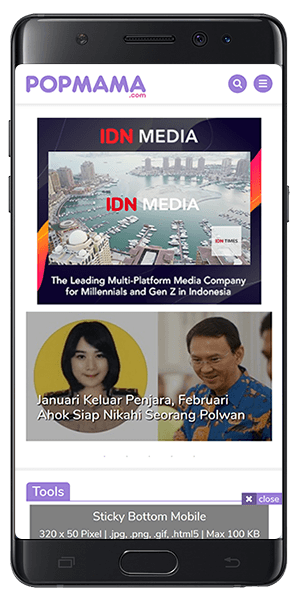
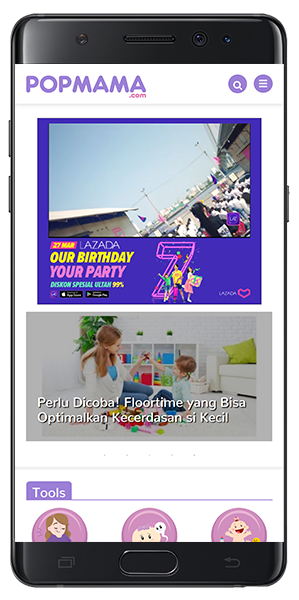
update

diff --git a/adproducts/page/idntimes/tvc-cpd.html b/adproducts/page/idntimes/tvc-cpd.html
@@ -32,9 +32,15 @@
                                 <div class="carousel-inner text-center">
                                     <div class="carousel-item active">
                                         <img class="d-block w-100" src="screenshots/leaderboard-tvc.png" alt="First slide">
+                                        <video autoplay muted loop playsinline preload="metadata" style="width: 20%; height: auto; position: absolute; left: 25%; margin: auto; top: 16%; z-index: 2;">
+                                            <source src="https://ads.idntimes.com/ads-assets/internal/video/video-lazada-ultah_1.mp4" type="video/mp4">
+                                        </video>
                                     </div>
                                     <div class="carousel-item mobile-ss">
                                         <img class="d-block w-100" src="screenshots/leaderboard-tvc-m.png" alt="Second slide" style="left: 0; right: 0; margin: auto; max-height: 350px; width: auto!important;">
+                                        <video autoplay muted loop playsinline preload="metadata" style="width: 120px; height: auto; position: absolute; left: 0; right: 0; margin: auto; top: 97px; z-index: 2;">
+                                            <source src="https://ads.idntimes.com/ads-assets/internal/video/video-lazada-ultah_1.mp4" type="video/mp4">
+                                        </video>
                                     </div>
                                 </div>
                                 <a class="carousel-control-prev" href="#carouselExampleIndicators" role="button" data-slide="prev">

diff --git a/adproducts/page/popmama/tvc-cpd.html b/adproducts/page/popmama/tvc-cpd.html
@@ -31,9 +31,15 @@
                                 <div class="carousel-inner text-center">
                                     <div class="carousel-item active">
                                         <img class="d-block w-100" src="screenshots/leaderboard-tvc.png" alt="First slide">
+                                        <video autoplay muted loop playsinline preload="metadata" style="width: 20%; height: auto; position: absolute; left: 25%; margin: auto; top: 19%; z-index: 2;">
+                                            <source src="https://ads.idntimes.com/ads-assets/internal/video/video-lazada-ultah_1.mp4" type="video/mp4">
+                                        </video>
                                     </div>
                                     <div class="carousel-item mobile-ss">
                                         <img class="d-block w-100" src="screenshots/leaderboard-tvc-m.png" alt="Second slide" style="left: 0; right: 0; margin: auto; max-height: 350px; width: auto!important;">
+                                        <video autoplay muted loop playsinline preload="metadata" style="width: 120px; height: auto; position: absolute; left: 0; right: 0; margin: auto; top: 71px; z-index: 2;">
+                                            <source src="https://ads.idntimes.com/ads-assets/internal/video/video-lazada-ultah_1.mp4" type="video/mp4">
+                                        </video>
                                     </div>
                                 </div>
                                 <a class="carousel-control-prev" href="#carouselExampleIndicators" role="button" data-slide="prev">

diff --git a/adproducts/page/popmama/tvc-cpm.html b/adproducts/page/popmama/tvc-cpm.html
@@ -31,9 +31,15 @@
                                 <div class="carousel-inner text-center">
                                     <div class="carousel-item active">
                                         <img class="d-block w-100" src="screenshots/leaderboard-tvc.png" alt="First slide">
+                                        <video autoplay muted loop playsinline preload="metadata" style="width: 20%; height: auto; position: absolute; left: 25%; margin: auto; top: 19%; z-index: 2;">
+                                            <source src="https://ads.idntimes.com/ads-assets/internal/video/video-lazada-ultah_1.mp4" type="video/mp4">
+                                        </video>
                                     </div>
                                     <div class="carousel-item mobile-ss">
                                         <img class="d-block w-100" src="screenshots/leaderboard-tvc-m.png" alt="Second slide" style="left: 0; right: 0; margin: auto; max-height: 350px; width: auto!important;">
+                                        <video autoplay muted loop playsinline preload="metadata" style="width: 120px; height: auto; position: absolute; left: 0; right: 0; margin: auto; top: 71px; z-index: 2;">
+                                            <source src="https://ads.idntimes.com/ads-assets/internal/video/video-lazada-ultah_1.mp4" type="video/mp4">
+                                        </video>
                                     </div>
                                 </div>
                                 <a class="carousel-control-prev" href="#carouselExampleIndicators" role="button" data-slide="prev">

diff --git a/adproducts/preview/mobile/popmama/leaderboard-tvc.html b/adproducts/preview/mobile/popmama/leaderboard-tvc.html
@@ -492,12 +492,14 @@
         <div class="ads">
         
                
-          <div style="position: relative; width: 300px; height: 250px; display: block; left: 0; right: 0; margin: auto; margin-bottom: 10px;">
-        
-            <a href="" target="_blank" style="position: absolute; display: block; width: 300px; height: 250px;"></a>
-            <iframe id="idn_media" status="autoplay mute" width="270" height="152" src="https://www.youtube.com/embed/1eiQQOEvq-I?enablejsapi=1&rel=0&showinfo=0&autoplay=1&mute=1" frameborder="0" allowfullscreen style="position:absolute; top: 45px; right: 15px; z-index: 1;"></iframe>
-            <img src="../idntimes/300x250-tvc.jpg">
-        </div>
+            <div style="position: relative; width: 300px; height: 250px; display: block; left: 0; right: 0; margin: auto;">
+                <a href="{clickurl}" target="_blank" style="position: absolute; display: block; width: 300px; height: 250px;"></a>
+                <video controls autoplay muted loop playsinline preload="metadata" style="width: 270px; height: 152px; position: absolute; left: 15px; top: 7px; z-index: 1;">
+                    <source src="https://ads.idntimes.com/ads-assets/client/lazada/maret19/video-lazada-ultah.mp4" type="video/mp4">
+                </video>
+          
+              <img src="https://ads.idntimes.com/ads-assets/client/lazada/maret19/300x250.jpg" style="max-width: 300px; height: auto;">
+              </div>
                     
             
             

diff --git a/adproducts/preview/desktop/popmama/leaderboard-tvc.html b/adproducts/preview/desktop/popmama/leaderboard-tvc.html
@@ -602,16 +602,15 @@
     
     <div class="ads">
       
-                                        <center>
-<div style="height:250px !important; width: 970px; position: relative; display: block; margin-bottom: 10px;">
-
-<a href="{clickurl}" target="_blank" style="position:absolute; width:970px; height:250px; display:block"></a>
-    
-     <iframe id="idn_media" status="autoplay mute" width="391" height="220" src="https://www.youtube.com/embed/1eiQQOEvq-I?enablejsapi=1&rel=0&showinfo=0&autoplay=1&mute=1" frameborder="0" allowfullscreen style="position:absolute; top: 15px; right: 20px; z-index: 1;"></iframe>
-    
-    <img src="../idntimes/970x250-tvc.jpg">
-</div>
-</center>
+        <center>
+            <div style="height: 250px; width: 970px; position: relative; display: block">
+                <a href="{clickurl}" target="_blank" style="position: absolute; width: 970px; height: 250px;"></a>
+                <video controls autoplay muted loop playsinline preload="metadata" style="width: 391px; height: 220px; position: absolute; left: 14px; top: 15px; z-index: 1;">
+                    <source src="https://ads.idntimes.com/ads-assets/client/lazada/maret19/video-lazada-ultah.mp4" type="video/mp4">
+                </video>
+                <img src="https://ads.idntimes.com/ads-assets/client/lazada/maret19/970x250.jpg" alt="leaderboard">
+            </div>
+        </center> 
             
       
       

diff --git a/adproducts/page/assets/css/main.scss b/adproducts/page/assets/css/main.scss
@@ -86,7 +86,7 @@ body, html {
 
 // shaping background
 .shaping-wrap {
-    position: absolute;
+    position: fixed;
     top: auto;
     bottom: 0;
     left: 0;
@@ -114,15 +114,7 @@ body, html {
 
 // overlay untuk sidebar 
 #sidebar-overlay {
-    width: 0px;
-    height: 100vh;
-    background-color: #000;
-    display: block;
-    position: absolute;
-    z-index: 99;
-    opacity: 0.6;
-    cursor: pointer;
-    transition: all 0.4s ease;
+    display: none;
 }
 // overlay warna untuk video
 .overlay {
@@ -643,6 +635,17 @@ th, td {
 
     .background {
         display: none;
+    }
+    #sidebar-overlay {
+        width: 0px;
+        height: 100vh;
+        background-color: #000;
+        display: block;
+        position: absolute;
+        z-index: 99;
+        opacity: 0.6;
+        cursor: pointer;
+        transition: all 0.4s ease;
     }
     #sidebar-wrapper {
         margin-top: 5rem;

diff --git a/adproducts/page/assets/css/main.css b/adproducts/page/assets/css/main.css
@@ -86,7 +86,7 @@ body, html {
 }
 
 .shaping-wrap {
-  position: absolute;
+  position: fixed;
   top: auto;
   bottom: 0;
   left: 0;
@@ -115,16 +115,7 @@ body, html {
 }
 
 #sidebar-overlay {
-  width: 0px;
-  height: 100vh;
-  background-color: #000;
-  display: block;
-  position: absolute;
-  z-index: 99;
-  opacity: 0.6;
-  cursor: pointer;
-  -webkit-transition: all 0.4s ease;
-  transition: all 0.4s ease;
+  display: none;
 }
 
 .overlay {
@@ -627,6 +618,18 @@ th, td {
   }
   .background {
     display: none;
+  }
+  #sidebar-overlay {
+    width: 0px;
+    height: 100vh;
+    background-color: #000;
+    display: block;
+    position: absolute;
+    z-index: 99;
+    opacity: 0.6;
+    cursor: pointer;
+    -webkit-transition: all 0.4s ease;
+    transition: all 0.4s ease;
   }
   #sidebar-wrapper {
     margin-top: 5rem;
